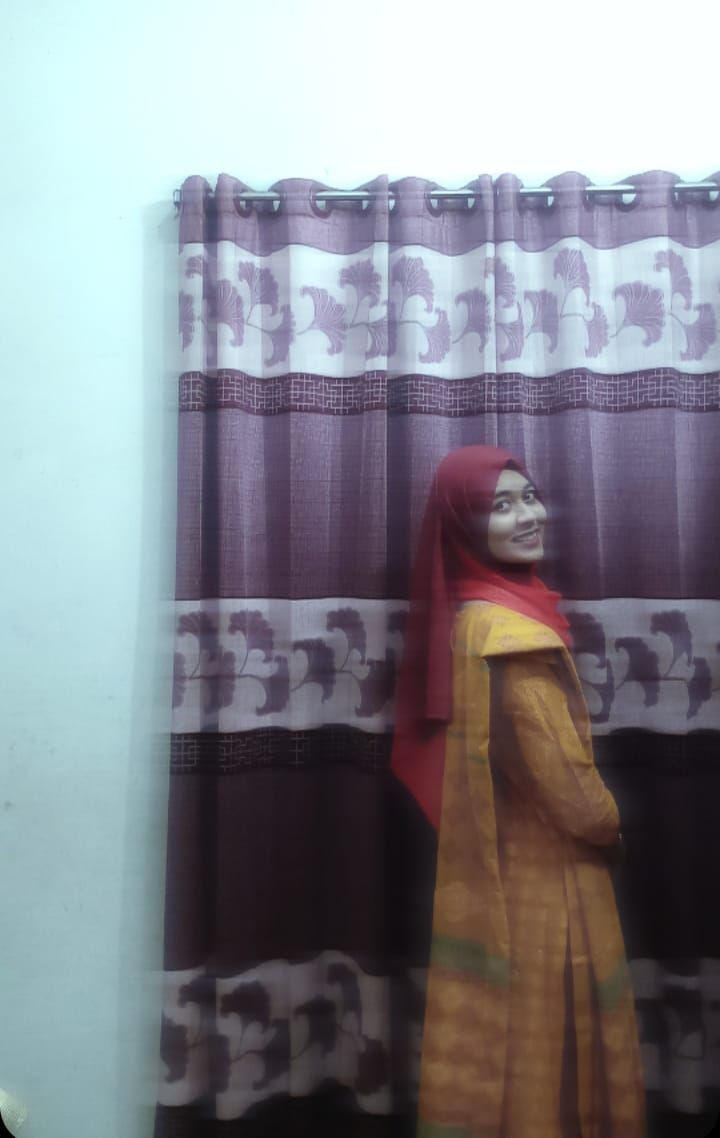
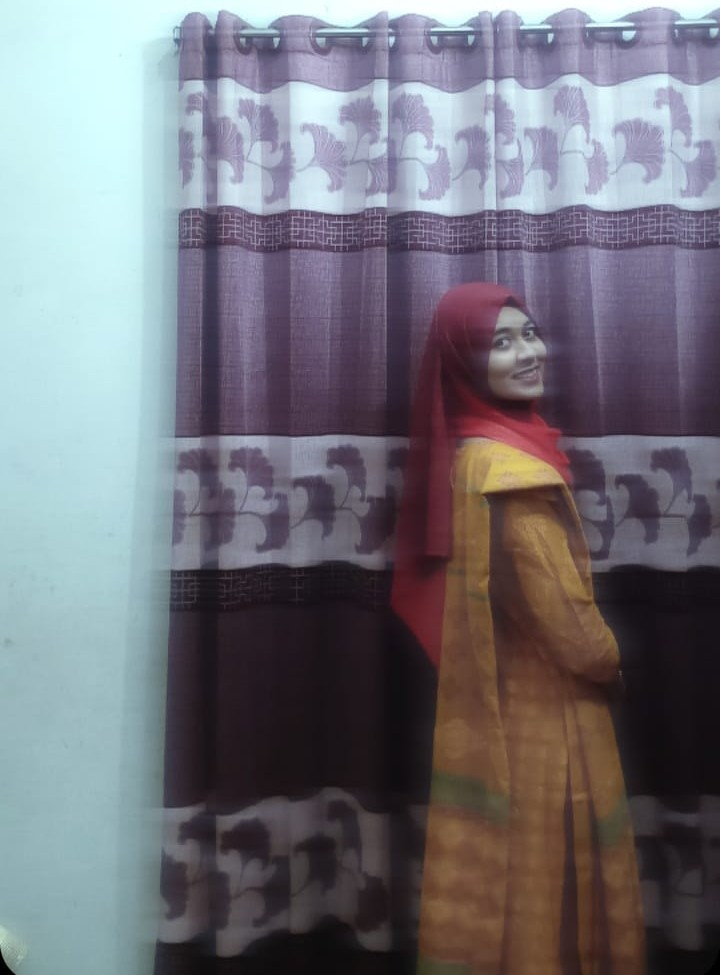
Update friendship story title and enhance farewell section; swap gallery images and add animation for farewell frame

diff --git a/index.html b/index.html
@@ -26,7 +26,7 @@
 
     <header class="topbar">
         <div class="topbar__brand">
-            <span class="topbar__label">Friendship Story</span>
+            <span class="topbar__label">Friendship Story Between Ocean Bolod and Nimu Chalak</span>
             <span class="topbar__title">2022 to forever</span>
         </div>
         <nav class="topbar__nav" aria-label="Story sections">
@@ -294,14 +294,14 @@
 
                 <figure class="gallery-card gallery-card--four reveal" data-reveal>
                     <div class="gallery-card__frame">
-                        <img alt="Reflective beauty" src="galleryPhoto/friendphoto-4.jpg" loading="lazy" decoding="async" />
+                        <img alt="Reflective beauty" src="galleryPhoto/friendphoto-5.jpg" loading="lazy" decoding="async" />
                     </div>
                     <figcaption>Lost in thought, found in peace</figcaption>
                 </figure>
 
                 <figure class="gallery-card gallery-card--five reveal" data-reveal>
                     <div class="gallery-card__frame">
-                        <img alt="Cinematic dreams" src="galleryPhoto/friendphoto-5.jpg" loading="lazy" decoding="async" />
+                        <img alt="Cinematic dreams" src="galleryPhoto/friendphoto-4.jpg" loading="lazy" decoding="async" />
                     </div>
                     <figcaption>Cinematic soul, gentle heart</figcaption>
                 </figure>
@@ -359,8 +359,8 @@
             <div class="farewell__constellation" aria-hidden="true"></div>
             <div class="farewell__moon" aria-hidden="true"></div>
 
-            <div class="farewell__scene reveal" data-reveal>
-                <div class="farewell__frame glass">
+            <div class="farewell__scene">
+                <div class="farewell__frame glass reveal" data-reveal>
                     <p class="eyebrow">Final thank you</p>
                     <h2>Thank you Nimu for being the kind of best friend who feels like family.</h2>
                     <p>From the first school days in 2022 to every memory that followed, you made life brighter, funnier, softer and a lot more meaningful. This story will keep growing and I’m grateful that you’re in every chapter.</p>

diff --git a/style.css b/style.css
@@ -2362,6 +2362,10 @@ main {
     animation: gentle-fade-in 850ms ease both;
 }
 
+.farewell__frame.is-visible {
+    animation: gentle-fade-in 850ms ease both;
+}
+
 @media (prefers-reduced-motion: reduce) {
     html {
         scroll-behavior: auto;
